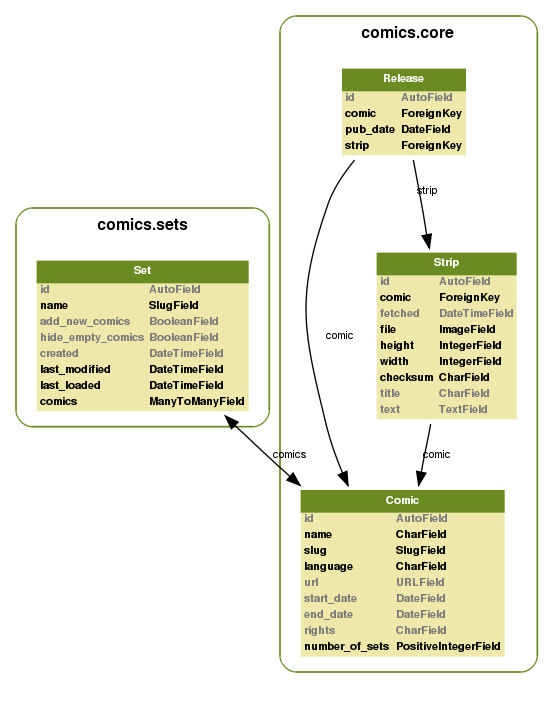
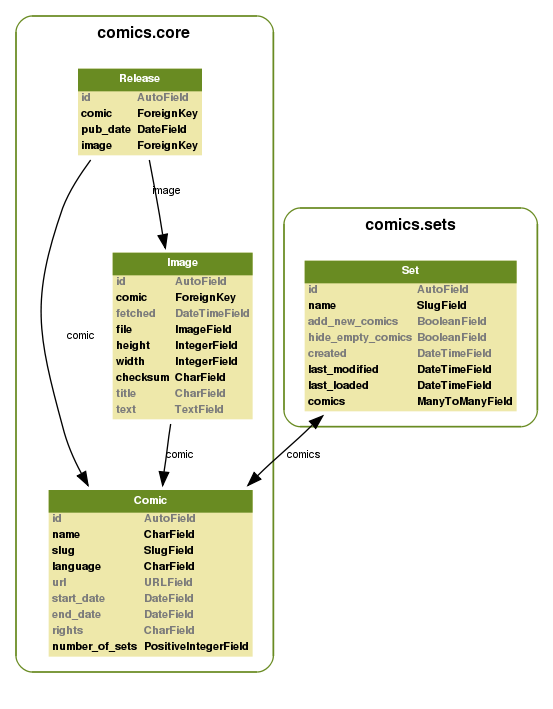
Update documentation

diff --git a/searchindex.js b/searchindex.js
@@ -1,1 +1,1 @@
-Search.setIndex({desctypes:{},terms:{represent:6,all:[0,4,3,6,5,8],code:[0,1,6,4],month:5,runserv:3,dirnam:5,follow:[0,5,6,3,7],alt:6,oldest:6,feedpars:[6,3],whose:6,depend:[1,3],zone:6,elsewher:5,send:[0,6],easiest:0,present:6,under:[0,1,6],spec:[0,1,2,4,7],sent:5,smush:0,sourc:[1,6,3],everi:5,string:6,fals:[6,7],util:0,veri:0,affect:0,brows:3,foo:6,administr:3,webmast:5,list:[0,1,3],adjust:6,javascript:5,database_host:5,dir:5,pleas:[0,6,5],history_capable_dai:6,core:[0,6,5],cron:5,aggreg:[0,1,2,3,6],download:[1,6],further:[6,5],whereev:5,port:3,blue:6,index:[1,5,7],what:[6,3],primer:6,navig:0,mainlin:0,abl:3,current:[6,8],version:[1,6,3,8],"new":[0,1,3,4,5,6,7],method:[1,6],full:[0,6,5],comic_id:7,gener:[0,1,6,3,5],here:[6,5],let:[4,6],address:5,path:5,valu:[1,6],search:1,weekdai:6,checksum:2,larger:0,errorlog:5,memcach:[3,5],discontinu:6,host:5,datetim:6,real:[1,6,3],implement:[0,4,2,6,7],pub_dat:[6,7],appli:6,app:0,"boolean":7,instal:[1,6,3,5],select:[6,7],userfriendli:6,would:6,regist:0,two:6,todai:6,next:3,database_us:5,handler:5,call:6,python26:3,type:6,more:6,abspath:5,relat:2,about:[6,5],start_dat:6,indic:1,known:6,postgresql:[5,3,7],strip_id:7,hold:3,cach:5,must:[0,6,5],none:6,hour:[6,5],alia:5,setup:5,work:[6,8,5],uniqu:[6,5],has_rerun:7,histori:6,can:[6,3,5],learn:6,fetch:6,def:6,parse_fe:6,overrid:5,defer:7,sqlite:3,django_extens:0,give:[0,1],predict:6,sudo:3,share:5,accept:0,customlog:5,minimum:[1,3],want:[6,3,5],serial:7,alwai:6,lxml:[6,3],multipl:[0,1,2,6,7],goal:[0,4,2,6,7],thing:0,anoth:[6,3],write:[0,6],how:[0,1,6],answer:3,instead:[6,5,2,3,7],comicslug:4,simpl:[0,6,3],css:[1,6,5],updat:[6,2],multiple_releases_per_dai:6,cronjob:[1,5],addoutputfilterbytyp:5,after:8,diagram:[0,3],befor:4,mac:3,cours:5,date:[6,2,3,7],end:6,data:[0,1,2,3,4,6,7],github:[0,6,3],author:6,django:[0,3,5],comics_strip:7,preced:6,environ:5,frequent:6,allow:[6,5],comicmeta:4,order:5,feed:[6,1,2],help:[6,3],over:6,rang:[6,3],through:[0,6],style:6,group:[0,5],img:6,psycopg2:3,fix:0,better:6,lxmlparser:[1,6],mail:[0,5],alter:7,them:[3,5],"return":[1,6],thei:[6,5],python:[0,1,6,3,4],dai:[0,6],initi:[6,7],expiresdefault:5,loadmeta:[6,3],complain:5,name:[0,6,2,3],anyth:6,drop:7,bonu:4,mod_wsgi:5,separ:6,dfafa:5,each:[4,6],debug:[6,3],found:6,mean:6,replac:2,realli:6,meta:[0,1,6,4],"static":5,extract:6,dst:6,publish:6,content:[1,6],etag:5,com:[6,3,5],rel:6,got:0,correct:7,red:6,model:[0,1,2,3,6,7],insid:5,migrat:[0,3],differ:5,standard:5,base:[1,6,3],mime:6,releas:[0,1,2,6,7,8],org:6,thread:5,affero:1,turn:[6,5],place:[4,6,5],expiresact:5,summari:6,think:6,end_dat:6,first:[6,8],origin:1,softwar:[1,3],major:8,media_root:5,qualiti:0,number:6,mai:[0,6,5],internal_ip:5,done:2,owner:7,comic:[0,1,2,3,4,5,6,7],open:3,primari:7,size:[0,5],gpl:1,given:[6,5],sheet:6,script:7,interact:6,ifmodul:5,least:[6,5],parse_pag:6,crawlerresult:[6,2],similarli:6,termin:3,scheme:2,mod_expir:5,"final":3,schema:3,option:[1,6,3,5],tool:3,servernam:5,specifi:[4,6,5],selector:[1,6],part:[6,3,5],accompani:[0,6],a2592000:5,crawl:[0,1,2,3,6],than:6,png:[0,6],rss:6,serv:[6,5],past:5,provid:[0,6,3],remov:[4,2,3,7,6,5],project:[0,5],database_password:5,minut:5,toward:8,browser:3,fork:[0,6],argument:[1,6,3],packag:3,seed:3,expir:5,have:[6,3,5],documentroot:5,need:[0,4,6,3],element:[1,6],wsgiscriptalia:5,inform:[4,3],self:6,note:0,also:[6,5],maintain:1,take:6,which:[4,6,3,5],combin:[6,5],euthahm7evei:5,singl:[0,1,6,7],even:[6,5],crawlerbas:6,deploy:[1,3,5],track:8,object:6,compress:5,most:[6,5],plan:[0,4,2],letter:6,deploi:5,content0:6,time_zon:6,don:5,url:6,doc:0,later:1,request:[0,6,5],doe:5,deni:5,declar:6,deflate_modul:5,database_port:5,databas:[0,4,6,3,5],pars:6,wsgi:[1,5],djdjdk5k4:5,text:[6,5],getcom:[6,3,5],hack:0,freeli:1,find:6,feedback:1,xml:[6,5],absolut:3,onli:3,locat:5,comics_release_comic_id:7,has_rerun_releas:6,configur:3,apach:[1,5],should:[6,5],comics_media_url:5,wsgidaemonprocess:5,folder:5,footnot:3,local:[1,3,5],media_url:5,contribut:[0,1,6],get:[0,1,6,3,5],"__file__":5,tailor:1,increas:6,requir:[1,5,6,3,7],randal:6,bar:6,enabl:5,mod_defl:5,aptitud:3,patch:[0,4],whether:6,stuff:6,common:[4,6],contain:[4,6],where:[6,3],valid:6,view:2,set:[0,1,5,3,7],unimport:7,initial_data:4,maxdesign:6,displai:[6,7],see:[0,6],comics_strip_pub_d:7,pattern:6,state:3,"import":[6,5],inclus:[1,6],fileetag:5,attribut:6,altern:3,signatur:6,magnu:1,appreci:0,kei:[2,7],numer:1,postgresql_psycopg2:5,extens:3,job:5,check_image_mime_typ:6,come:6,addit:[0,5,6,3,7],both:[5,6,7],selectutori:6,last:6,admin:[3,5],foreign:[2,7],etc:5,instanc:[4,6],improv:0,whole:6,strftime:6,expires_modul:5,load:[0,1,6,3],simpli:6,point:[3,5],color:6,overview:6,ubuntu:3,header:6,suppli:6,typic:6,assum:5,xkcd:[6,3],"0a0":[1,8],three:0,been:[1,6,3],wsgiprocessgroup:5,toolbar:3,interest:6,comics_release_comic_id_pub_date_strip_id:7,popul:7,for_dat:6,comics_media_root:5,eastern:6,imag:[0,1,2,3,6],great:6,ani:[6,5],coordin:0,those:6,"case":6,multi:0,look:[6,5],gnu:1,plain:5,secret_kei:5,properti:6,batch:5,munro:6,comics_release_strip_id:7,abov:[0,6,5],error:5,modul:[4,5],fixtur:4,loos:0,loop:6,css3:6,tabl:[1,7],non:0,jpg:6,itself:[0,6],comics_com:7,south:[0,3],ship:5,"null":7,develop:[0,1,3],grant:[0,6],media:5,make:5,same:[0,6],metabas:6,html:[1,6,3,5],split:6,document:[0,1,6,3,5],infer:2,"12312415151368edkfjgngnw3m":5,complet:6,week:0,http:[1,6,3,5],graph_model:0,upon:6,piec:6,capabl:6,rais:5,user:[0,1,4,5],mani:2,cartoon:6,expand:6,kudo:0,task:3,off:5,entri:[1,6],thu:0,strip_id_refs_id_211be2b6bc8157f:7,history_capable_d:6,comics_releas:7,without:[0,6,5],person:3,exampl:[1,6,5],command:[0,4,6,3,5],thi:[6,5,2,8,7],titl:6,deferr:7,everyth:4,anybodi:5,dev:0,latest:3,comment:1,just:[6,3,5],less:0,languag:6,previous:4,web:[6,1,2,3],now:[3,5],europ:6,priorit:0,except:5,apache2:5,add:[0,4,3,7,6,5],macport:3,schedul:[0,6],input:1,cache_middleware_key_prefix:5,approxim:6,match:[4,1,6],bin:0,applic:[1,5],stein:1,read:4,database_engin:5,know:6,database_nam:5,password:3,licens:[0,6],insert:[5,7],like:[6,3,5],specif:[0,1,6,3],arbitrari:3,integ:7,server:[3,5],either:6,"static":0,django_settings_modul:5,output:[0,6],page:[0,1,6],crawler:[0,1,3,4,6,5],www:[6,5],right:6,old:[6,7],often:0,creation:4,some:[0,6,2,3],back:0,loadcomicmeta:4,intern:[6,5],syncdb:3,wsgihandl:5,though:6,per:[0,1,2,6],usernam:3,unit:[0,3],prod:5,localhost:[3,5],refer:[5,6,7],mailto:5,process:0,run:[0,1,6,3,5],power:6,usag:3,cmemcach:3,vhost:[1,5],step:3,repositori:3,from:[0,1,2,3,5,6,7],slug:6,handi:3,src:6,deflat:5,central:6,greatli:[0,6],constraint:7,column:7,py26:3,manag:[0,4,6,3,5],statement:0,commit:[6,5],own:[6,5],effici:5,jodal:[0,1,6,3],pythonpath:5,within:6,cache_backend:5,automat:[4,6],upgrad:7,coverag:[0,3],strip:[0,1,2,3,5,6,7],wrap:6,chang:[0,1,2,4,5,6,7,8],your:[0,1,6,3,5],merg:4,accordingli:2,git:3,log:[8,3,5],wai:[0,6,5],support:[0,4,2,6],json:4,submit:[1,6],"class":[4,1,6],avail:[1,6,3],start:[0,6,3],"var":5,"function":0,properli:6,regard:6,atom:6,renam:2,line:5,"true":6,pull:[0,6],consist:[0,2],"default":[5,6,3,7],access:5,maximum:5,anew:7,rerun:6,site:6,clone:3,page_url:6,pil:3,creat:[4,1,2,3,6,7],utc:6,parser:[1,6],exist:[4,3,5],file:[4,1,2,3,6,5],mtime:5,pip:3,regularili:5,check:[6,3],probabl:5,todo:[0,1],when:[0,4,6,7],detail:[6,5],refactor:0,pmock:3,field:[1,6,7],other:[1,6],normal:6,test:[0,1,6,3],you:[0,6,3,5],mock:3,consid:2,unless:3,debian:3,reduc:0,sdad:5,sphinx:3,directori:[6,3,5],virtualhost:5,rule:6,data_model:0,karma:0,time:[0,6],far:0,fresh:3},titles:["Development","comics","Spec-003: Multiple images per comic release","Installation","Spec-002: Crawler meta data in Python code","Deployment","Creating new crawlers","Spec-001: Multiple releases of a single comic strip","Changes"],modules:{},descrefs:{},filenames:["development","index","specs/003-multi-image","installation","specs/002-crawler-meta","deployment","crawlers","specs/001-multi-release","changes"]})
+Search.setIndex({desctypes:{},terms:{represent:6,all:[0,4,3,6,5,8],code:[0,1,6,4],month:5,runserv:3,dirnam:5,follow:[0,5,6,3,7],alt:6,oldest:6,feedpars:[6,3],whose:6,depend:[1,3],zone:6,elsewher:5,send:[0,6],easiest:0,present:6,under:[0,1,6],spec:[0,1,2,4,7],sent:5,smush:0,sourc:[1,6,3],everi:5,string:6,fals:[6,7],util:0,veri:0,affect:0,brows:3,foo:6,administr:3,webmast:5,list:[0,1,3],adjust:6,javascript:5,database_host:5,dir:5,pleas:[0,6,5],history_capable_dai:6,core:[0,6,5],cron:5,aggreg:[0,1,2,3,6],download:[1,6],further:[6,5],whereev:5,port:3,blue:6,index:[1,5,7],what:[6,3],primer:6,navig:0,mainlin:0,abl:3,current:[6,8],version:[1,6,3,8],"new":[0,1,3,4,5,6,7],method:[1,6],full:[0,6,5],comic_id:7,gener:[0,1,6,3,5],here:[6,5],let:[4,6],address:5,path:5,valu:[1,6],search:1,weekdai:6,checksum:2,larger:0,errorlog:5,memcach:[3,5],discontinu:6,host:5,datetim:6,real:[1,6,3],implement:[0,4,2,6,7],pub_dat:[6,7],appli:6,app:0,"boolean":7,instal:[1,6,3,5],select:[6,7],userfriendli:6,would:6,regist:0,two:6,todai:6,next:3,database_us:5,handler:5,call:6,python26:3,type:6,more:6,abspath:5,relat:2,about:[6,5],start_dat:6,indic:1,known:6,postgresql:[5,3,7],strip_id:7,hold:3,cach:5,must:[0,6,5],none:6,hour:[6,5],alia:5,setup:5,work:[6,8,5],uniqu:[6,5],has_rerun:7,histori:6,can:[6,3,5],learn:6,fetch:6,def:6,parse_fe:6,overrid:5,defer:7,sqlite:3,django_extens:0,give:[0,1],predict:6,sudo:3,share:5,accept:0,customlog:5,minimum:[1,3],want:[6,3,5],serial:7,alwai:6,lxml:[6,3],multipl:[0,1,2,6,7],goal:[0,4,2,6,7],thing:0,anoth:[6,3],write:[0,6],how:[0,1,6],answer:3,instead:[6,5,2,3,7],comicslug:4,simpl:[0,6,3],css:[1,6,5],updat:[6,2],multiple_releases_per_dai:6,cronjob:[1,5],addoutputfilterbytyp:5,after:8,diagram:[0,3],befor:4,mac:3,cours:5,date:[6,2,3,7],end:6,data:[0,1,2,3,4,6,7],github:[0,6,3],author:6,django:[0,3,5],comics_strip:7,preced:6,environ:5,frequent:6,allow:[6,5],comicmeta:4,order:5,feed:[6,1,2],help:[6,3],over:6,rang:[6,3],through:[0,6],style:6,group:[0,5],img:6,psycopg2:3,fix:0,better:6,lxmlparser:[1,6],mail:[0,5],alter:7,them:[3,5],"return":[1,6],thei:[6,5],python:[0,1,6,3,4],dai:[0,6],initi:[6,7],expiresdefault:5,loadmeta:[6,3],complain:5,name:[0,6,2,3],anyth:6,drop:7,bonu:4,mod_wsgi:5,separ:6,dfafa:5,each:[4,6],debug:[6,3],found:6,mean:6,replac:2,realli:6,meta:[0,1,6,4],"static":5,extract:6,dst:6,publish:6,content:[1,6],etag:5,com:[6,3,5],rel:6,got:0,correct:7,red:6,model:[0,1,2,3,6,7],insid:5,migrat:[0,3],differ:5,standard:5,base:[1,6,3],mime:6,releas:[0,1,2,3,6,7,8],org:6,thread:5,affero:1,turn:[6,5],place:[4,6,5],expiresact:5,summari:6,think:6,end_dat:6,first:[6,8],origin:1,softwar:[1,3],major:8,media_root:5,qualiti:0,number:6,mai:[0,6,5],internal_ip:5,done:2,owner:7,comic:[0,1,2,3,4,5,6,7],open:3,primari:7,size:[0,5],gpl:1,given:[6,5],sheet:6,script:7,interact:6,ifmodul:5,least:[6,5],parse_pag:6,crawlerresult:[6,2],similarli:6,termin:3,scheme:2,mod_expir:5,"final":3,schema:3,option:[1,6,3,5],tool:3,servernam:5,specifi:[4,6,5],selector:[1,6],part:[6,3,5],accompani:[0,6],a2592000:5,crawl:[0,1,2,3,6],than:6,png:[0,6],rss:6,serv:[6,5],past:5,provid:[0,6,3],remov:[4,2,3,7,6,5],project:[0,5],database_password:5,minut:5,toward:8,browser:3,fork:[0,6],argument:[1,6,3],packag:3,seed:3,expir:5,have:[6,3,5],documentroot:5,need:[0,4,6,3],element:[1,6],wsgiscriptalia:5,inform:[4,3],self:6,note:0,also:[6,5],maintain:1,take:6,which:[4,6,3,5],combin:[6,5],euthahm7evei:5,singl:[0,1,6,7],even:[6,5],crawlerbas:6,deploy:[1,3,5],track:8,object:6,compress:5,most:[6,5],plan:[0,4,2],letter:6,deploi:5,content0:6,time_zon:6,don:5,url:6,doc:0,later:1,request:[0,6,5],doe:5,deni:5,declar:6,deflate_modul:5,database_port:5,databas:[0,4,6,3,5],pars:6,wsgi:[1,5],djdjdk5k4:5,text:[6,5],getcom:[6,3,5],hack:0,freeli:1,find:6,feedback:1,xml:[6,5],absolut:3,onli:3,locat:5,comics_release_comic_id:7,has_rerun_releas:6,configur:3,apach:[1,5],should:[6,5],comics_media_url:5,wsgidaemonprocess:5,folder:5,footnot:3,local:[1,3,5],media_url:5,contribut:[0,1,6],get:[0,1,6,3,5],"__file__":5,tailor:1,increas:6,requir:[1,5,6,3,7],randal:6,bar:6,enabl:5,mod_defl:5,aptitud:3,patch:[0,4],whether:6,stuff:6,common:[4,6],contain:[4,6],where:[6,3],valid:6,view:2,set:[0,1,5,3,7],unimport:7,initial_data:4,maxdesign:6,displai:[6,7],see:[0,6],comics_strip_pub_d:7,pattern:6,state:3,"import":[6,5],inclus:[1,6],fileetag:5,attribut:6,altern:3,signatur:6,magnu:1,appreci:0,kei:[2,7],numer:1,postgresql_psycopg2:5,extens:3,job:5,check_image_mime_typ:6,come:6,addit:[0,5,6,3,7],both:[5,6,7],selectutori:6,last:6,admin:[3,5],foreign:[2,7],etc:5,instanc:[4,6],improv:0,whole:6,strftime:6,expires_modul:5,load:[0,1,6,3],simpli:6,point:[3,5],color:6,overview:6,ubuntu:3,header:6,suppli:6,typic:6,assum:5,xkcd:[6,3],"0a0":[1,8],three:0,been:[1,6,3],wsgiprocessgroup:5,toolbar:3,interest:6,comics_release_comic_id_pub_date_strip_id:7,popul:7,for_dat:6,comics_media_root:5,eastern:6,imag:[0,1,2,3,6,5],great:6,ani:[6,5],coordin:0,those:6,"case":6,multi:0,look:[6,5],gnu:1,plain:5,secret_kei:5,properti:6,batch:5,munro:6,comics_release_strip_id:7,abov:[0,6,5],error:5,modul:[4,5],fixtur:4,loos:0,loop:6,css3:6,tabl:[1,7],non:0,jpg:6,itself:[0,6],comics_com:7,south:[0,3],ship:5,"null":7,develop:[0,1,3],grant:[0,6],media:5,make:5,same:[0,6],metabas:6,html:[1,6,3,5],split:6,document:[0,1,6,3,5],infer:2,"12312415151368edkfjgngnw3m":5,complet:6,week:0,http:[1,6,3,5],graph_model:0,upon:6,piec:6,capabl:6,rais:5,user:[0,1,4,5],mani:2,cartoon:6,expand:6,kudo:0,task:3,off:5,entri:[1,6],thu:0,strip_id_refs_id_211be2b6bc8157f:7,history_capable_d:6,comics_releas:7,without:[0,6,5],person:3,exampl:[1,6,5],command:[0,4,6,3,5],thi:[6,5,2,8,7],titl:6,deferr:7,everyth:4,anybodi:5,dev:0,latest:3,comment:1,just:[6,3,5],less:0,languag:6,previous:4,web:[6,1,2,3],now:[3,5],europ:6,priorit:0,except:5,apache2:5,add:[0,4,3,7,6,5],macport:3,schedul:[0,6],input:1,cache_middleware_key_prefix:5,approxim:6,match:[4,1,6],bin:0,applic:[1,5],stein:1,read:4,database_engin:5,know:6,database_nam:5,password:3,licens:[0,6],insert:[5,7],like:[6,3,5],specif:[0,1,6,3],arbitrari:3,integ:7,server:[3,5],either:6,"static":0,django_settings_modul:5,output:[0,6],page:[0,1,6],crawler:[0,1,3,4,6,5],www:[6,5],right:6,old:[6,7],often:0,creation:4,some:[0,6,2,3],back:0,loadcomicmeta:4,intern:[6,5],syncdb:3,wsgihandl:5,though:6,per:[0,1,2,6],usernam:3,unit:[0,3],prod:5,localhost:[3,5],refer:[5,6,7],mailto:5,process:0,run:[0,1,6,3,5],power:6,usag:3,cmemcach:3,vhost:[1,5],step:3,repositori:3,from:[0,1,2,3,5,6,7],slug:6,handi:3,src:6,deflat:5,central:6,greatli:[0,6],constraint:7,column:7,py26:3,manag:[0,4,6,3,5],statement:0,commit:[6,5],own:[6,5],effici:5,jodal:[0,1,6,3],pythonpath:5,within:6,cache_backend:5,automat:[4,6],upgrad:7,coverag:[0,3],strip:[0,1,2,6,7],wrap:6,chang:[0,1,2,4,5,6,7,8],your:[0,1,6,3,5],merg:4,accordingli:2,git:3,log:[8,3,5],wai:[0,6,5],support:[0,4,2,6],json:4,submit:[1,6],"class":[4,1,6],avail:[1,6,3],start:[0,6,3],"var":5,"function":0,properli:6,regard:6,atom:6,renam:2,line:5,"true":6,pull:[0,6],consist:[0,2],"default":[5,6,3,7],access:5,maximum:5,anew:7,rerun:6,site:6,clone:3,page_url:6,pil:3,creat:[4,1,2,3,6,7],utc:6,parser:[1,6],exist:[4,3,5],file:[4,1,2,3,6,5],mtime:5,pip:3,regularili:5,check:[6,3],probabl:5,todo:[0,1],when:[0,4,6,7],detail:[6,5],refactor:0,pmock:3,field:[1,6,7],other:[1,6],normal:6,test:[0,1,6,3],you:[0,6,3,5],mock:3,consid:2,unless:3,debian:3,reduc:0,sdad:5,sphinx:3,directori:[6,3,5],virtualhost:5,rule:6,data_model:0,karma:0,time:[0,6],far:0,fresh:3},titles:["Development","comics","Spec-003: Multiple images per comic release","Installation","Spec-002: Crawler meta data in Python code","Deployment","Creating new crawlers","Spec-001: Multiple releases of a single comic strip","Changes"],modules:{},descrefs:{},filenames:["development","index","specs/003-multi-image","installation","specs/002-crawler-meta","deployment","crawlers","specs/001-multi-release","changes"]})

diff --git a/crawlers.html b/crawlers.html
@@ -127,8 +127,7 @@ UTC, without regard to DST) the comic is published.</p>
 <p class="last">Example: <tt class="docutils literal"><span class="pre">1</span></tt> for central Europe or <tt class="docutils literal"><span class="pre">-5</span></tt> for eastern U.S.</p>
 </dd>
 <dt><tt class="docutils literal"><span class="pre">Crawler.multiple_releases_per_day</span></tt></dt>
-<dd><p class="first"><em>Optional.</em> Default: <tt class="xref docutils literal"><span class="pre">False</span></tt>. Whether to allow multiple strip releases
-per a day.</p>
+<dd><p class="first"><em>Optional.</em> Default: <tt class="xref docutils literal"><span class="pre">False</span></tt>. Whether to allow multiple releases per day.</p>
 <p class="last">Example: <tt class="xref docutils literal"><span class="pre">True</span></tt> or <tt class="xref docutils literal"><span class="pre">False</span></tt>.</p>
 </dd>
 </dl>
@@ -137,13 +136,13 @@ per a day.</p>
 <h3>Fields used for downloading<a class="headerlink" href="#fields-used-for-downloading" title="Permalink to this headline">¶</a></h3>
 <dl class="docutils">
 <dt><tt class="docutils literal"><span class="pre">Crawler.has_rerun_releases</span></tt></dt>
-<dd><p class="first"><em>Optional.</em> Default: <tt class="xref docutils literal"><span class="pre">False</span></tt>. Whether the comic reruns old strips as new
+<dd><p class="first"><em>Optional.</em> Default: <tt class="xref docutils literal"><span class="pre">False</span></tt>. Whether the comic reruns old images as new
 releases.</p>
 <p class="last">Example: <tt class="xref docutils literal"><span class="pre">True</span></tt> or <tt class="xref docutils literal"><span class="pre">False</span></tt>.</p>
 </dd>
 <dt><tt class="docutils literal"><span class="pre">Crawler.check_image_mime_type</span></tt></dt>
-<dd><p class="first"><em>Optional.</em> Default: <tt class="xref docutils literal"><span class="pre">True</span></tt>. Whether to check the mime type of the strip
-image when downloading.</p>
+<dd><p class="first"><em>Optional.</em> Default: <tt class="xref docutils literal"><span class="pre">True</span></tt>. Whether to check the mime type of the image
+when downloading.</p>
 <p class="last">Example: <tt class="xref docutils literal"><span class="pre">True</span></tt> or <tt class="xref docutils literal"><span class="pre">False</span></tt>.</p>
 </dd>
 </dl>
@@ -167,8 +166,8 @@ let&#8217;s look at <em>XKCD</em>&#8216;s <tt class="docutils literal"><span cla
 <p>The <tt class="docutils literal"><span class="pre">crawl()</span></tt> method takes a single argument, <tt class="docutils literal"><span class="pre">pub_date</span></tt>, which is a
 <tt class="docutils literal"><span class="pre">datetime.date</span></tt> object for the date the crawler is currently crawling. The
 goal of the method is to return a <tt class="docutils literal"><span class="pre">CrawlerResult</span></tt> object containing at least
-the URL of the strip image for <tt class="docutils literal"><span class="pre">pub_date</span></tt> and optionally a <tt class="docutils literal"><span class="pre">title</span></tt> and
-<tt class="docutils literal"><span class="pre">text</span></tt> accompanying the image. <tt class="docutils literal"><span class="pre">CrawlerResult</span></tt>&#8216;s signature is:</p>
+the URL of the image for <tt class="docutils literal"><span class="pre">pub_date</span></tt> and optionally a <tt class="docutils literal"><span class="pre">title</span></tt> and <tt class="docutils literal"><span class="pre">text</span></tt>
+accompanying the image. <tt class="docutils literal"><span class="pre">CrawlerResult</span></tt>&#8216;s signature is:</p>
 <div class="highlight-python"><div class="highlight"><pre><span class="n">CrawlerResult</span><span class="p">(</span><span class="n">url</span><span class="p">,</span> <span class="n">title</span><span class="o">=</span><span class="bp">None</span><span class="p">,</span> <span class="n">text</span><span class="o">=</span><span class="bp">None</span><span class="p">)</span>
 </pre></div>
 </div>
@@ -183,8 +182,8 @@ the URL of the strip image for <tt class="docutils literal"><span class="pre">pu
 <span class="n">CrawlerResult</span><span class="p">(</span><span class="n">url</span><span class="p">,</span> <span class="n">title</span><span class="o">=</span><span class="n">title</span><span class="p">,</span> <span class="n">text</span><span class="o">=</span><span class="n">text</span><span class="p">)</span>
 </pre></div>
 </div>
-<p>For some crawlers, this is all you need. If the strip image URL is predictable
-and based upon the <tt class="docutils literal"><span class="pre">pub_date</span></tt> in some way, just create the URL with the help
+<p>For some crawlers, this is all you need. If the image URL is predictable and
+based upon the <tt class="docutils literal"><span class="pre">pub_date</span></tt> in some way, just create the URL with the help
 of <a class="reference external" href="http://docs.python.org/library/datetime.html#strftime-behavior">Python&#8217;s strftime documentation</a>, and return
 it wrapped in a <tt class="docutils literal"><span class="pre">CrawlerResult</span></tt>:</p>
 <div class="highlight-python"><div class="highlight"><pre><span class="k">def</span> <span class="nf">crawl</span><span class="p">(</span><span class="bp">self</span><span class="p">,</span> <span class="n">pub_date</span><span class="p">):</span>
@@ -211,7 +210,7 @@ extract content from HTML:</p>
 </div>
 <p>This is a common pattern for crawlers. Another common patterns is to use a feed
 to find the web page URL for the given date, then parse that web page to find
-the strip image URL.</p>
+the image URL.</p>
 <p>For a primer on CSS selectors, see <a class="reference internal" href="#css-selectors"><em>Matching HTML elements using CSS selectors</em></a>.</p>
 <div class="section" id="available-methods">
 <h3>Available methods<a class="headerlink" href="#available-methods" title="Permalink to this headline">¶</a></h3>
@@ -253,7 +252,7 @@ initialized with a web page URL:</p>
 <dd>Returns all feed elements.</dd>
 </dl>
 <p>Typically, a crawler uses <tt class="docutils literal"><span class="pre">for_date(date)</span></tt> and loops over all entries it
-returns to find the strip image URL:</p>
+returns to find the image URL:</p>
 <div class="highlight-python"><div class="highlight"><pre><span class="k">for</span> <span class="n">entry</span> <span class="ow">in</span> <span class="n">feed</span><span class="o">.</span><span class="n">for_date</span><span class="p">(</span><span class="n">pub_date</span><span class="p">):</span>
     <span class="c"># parsing comes here</span>
     <span class="k">return</span> <span class="n">CrawlerResult</span><span class="p">(</span><span class="n">url</span><span class="p">)</span>
@@ -329,10 +328,9 @@ simply write:</p>
 <p>When the first version of you crawler is complete, it&#8217;s time to test it.</p>
 <p>The file name is important, as it is used as the comic&#8217;s slug. This means that
 it must be unique within the <em>comics</em> installation, and that it is used in the
-URLs <em>comics</em> will serve the comic strips at. For this example, we call the
-crawler file <tt class="docutils literal"><span class="pre">foo.py</span></tt>. The file must be placed in the
-<tt class="docutils literal"><span class="pre">comics/comics/comics/</span></tt> directory, and will be available in Python as
-<tt class="docutils literal"><span class="pre">comics.comics.foo</span></tt>.</p>
+URLs <em>comics</em> will serve the comic at. For this example, we call the crawler
+file <tt class="docutils literal"><span class="pre">foo.py</span></tt>. The file must be placed in the <tt class="docutils literal"><span class="pre">comics/comics/comics/</span></tt>
+directory, and will be available in Python as <tt class="docutils literal"><span class="pre">comics.comics.foo</span></tt>.</p>
 <div class="section" id="loading-meta-for-your-new-comic">
 <h3>Loading <tt class="docutils literal"><span class="pre">Meta</span></tt> for your new comic<a class="headerlink" href="#loading-meta-for-your-new-comic" title="Permalink to this headline">¶</a></h3>
 <p>For <em>comics</em> to know about your new crawler, you need to load the comic meta
@@ -345,11 +343,12 @@ data into <em>comics</em>&#8216;s database. To do so, we run the <tt class="docu
 <div class="section" id="running-the-crawler">
 <h3>Running the crawler<a class="headerlink" href="#running-the-crawler" title="Permalink to this headline">¶</a></h3>
 <p>When <tt class="docutils literal"><span class="pre">loadmeta</span></tt> has created a <tt class="docutils literal"><span class="pre">Comic</span></tt> instance for the new crawler, you may
-use your new crawler to fetch the comic&#8217;s strip for the current date by
+use your new crawler to fetch the comic&#8217;s release for the current date by
 running:</p>
 <div class="highlight-python"><pre>python manage.py getcomics -c foo</pre>
 </div>
-<p>If you want to get comics strips for more than the current day, you may specify a date range to crawl, like:</p>
+<p>If you want to get comics releases for more than the current day, you may
+specify a date range to crawl, like:</p>
 <div class="highlight-python"><pre>python manage.py getcomics -c foo -f 2009-01-01 -t 2009-03-31</pre>
 </div>
 <p>The date range will automatically be adjusted to the crawlers <em>history

diff --git a/installation.html b/installation.html
@@ -121,21 +121,21 @@ create that part of the database, run:</p>
 </div>
 <p>Optionally, you can add <tt class="docutils literal"><span class="pre">-c</span> <span class="pre">xkcd</span></tt> to only load the <em>XKCD</em> comic from
 <tt class="docutils literal"><span class="pre">comics/comics/comics/xkcd.py</span></tt>.</p>
-<p>Next, we need to get hold of some comic strips, so we will crawl the web for
+<p>Next, we need to get hold of some comic releases, so we will crawl the web for
 them:</p>
 <div class="highlight-python"><pre>python manage.py getcomics</pre>
 </div>
-<p>Finally, to be able to browse the comic strips we have aggregated, start the
+<p>Finally, to be able to browse the comic releases we have aggregated, start the
 Django development web server by running:</p>
 <div class="highlight-python"><pre>python manage.py runserver</pre>
 </div>
 <p>If you now point your web browser at <a class="reference external" href="http://localhost:8000/">http://localhost:8000/</a> you will be able to
 browse all available comics. If you provided a username and password at the
 <tt class="docutils literal"><span class="pre">syncdb</span></tt> step, you can log in at <a class="reference external" href="http://localhost:8000/admin/">http://localhost:8000/admin/</a> to do simple
-administration tasks, like removing comics or strips.</p>
+administration tasks, like removing comics or releases.</p>
 <p>All of these commands answers to the <tt class="docutils literal"><span class="pre">--help</span></tt> argument. I.e. <tt class="docutils literal"><span class="pre">getcomics</span></tt>
 can crawl specific comics, and arbitrary ranges of dates instead of just
-getting the latest comic strips.</p>
+getting the latest release.</p>
 <p class="rubric">Footnotes</p>
 <table class="docutils footnote" frame="void" id="sqlite" rules="none">
 <colgroup><col class="label" /><col /></colgroup>

diff --git a/deployment.html b/deployment.html
@@ -54,7 +54,7 @@ deployment documentation</a> for further details.</p>
 <p>In the following examples we assume that we are deploying <em>comics</em> at
 <a class="reference external" href="http://comics.example.com/">http://comics.example.com/</a>, using Apache, mod_wsgi, and PostgreSQL. The Django
 application and batch job is both running as the user <tt class="docutils literal"><span class="pre">comics-user</span></tt>. The
-static media files, like comic strips, are served from
+static media files, like comic images, are served from
 <a class="reference external" href="http://comics.example.com/media/">http://comics.example.com/media/</a>, but may also be served from a different host.</p>
 <div class="section" id="example-apache-vhost">
 <h2>Example Apache vhost<a class="headerlink" href="#example-apache-vhost" title="Permalink to this headline">¶</a></h2>

diff --git a/specs/003-multi-image.html b/specs/003-multi-image.html
@@ -63,7 +63,7 @@
 <ol class="arabic simple">
 <li>[done, 2009-01-03] Change naming scheme for image files from date to
 checksum.</li>
-<li>Rename <tt class="docutils literal"><span class="pre">Strip</span></tt> to <tt class="docutils literal"><span class="pre">Image</span></tt>.</li>
+<li>[done, 2009-01-04] Rename <tt class="docutils literal"><span class="pre">Strip</span></tt> to <tt class="docutils literal"><span class="pre">Image</span></tt>.</li>
 <li>Replace the <tt class="docutils literal"><span class="pre">Release.strip</span></tt> foreign key with a many-to-many relation to
 <tt class="docutils literal"><span class="pre">Image</span></tt>.</li>
 <li>Consider removing the foreign key <tt class="docutils literal"><span class="pre">Release.comic</span></tt> and instead infer it
